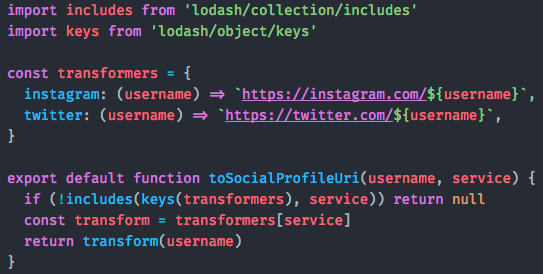
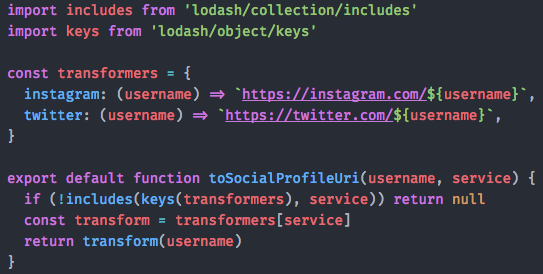
Improve Editors page. (#1048)
* Compress the syntax highlighting screenshot.

* Improve editors page.

diff --git a/docs/editors.md b/docs/editors.md
@@ -16,6 +16,8 @@ This guide should help you get the syntax highlighting to work.
 If you're looking for more advanced integrations, you may want to
 take a look at the [Setup](/docs/setup) guide.
 
+**Tip:** The font used on the screenshot above is [FiraCode](https://github.com/tonsky/FiraCode).
+
 ### Atom
 
 Install [language-babel](https://atom.io/packages/language-babel) package
@@ -32,6 +34,9 @@ the [instructions](https://github.com/babel/babel-sublime#installation).
 
 Install [Babel ES6/ES7](https://marketplace.visualstudio.com/items?itemName=dzannotti.vscode-babel-coloring)
 extension and follow the instructions.
+
+There seems to be one other way to get the syntax highlighting working and you can learn
+more about it in the [Visual Studio Code docs](https://code.visualstudio.com/Docs/languages/javascript#_writing-jsconfigjson).
 
 ### WebStorm
 
